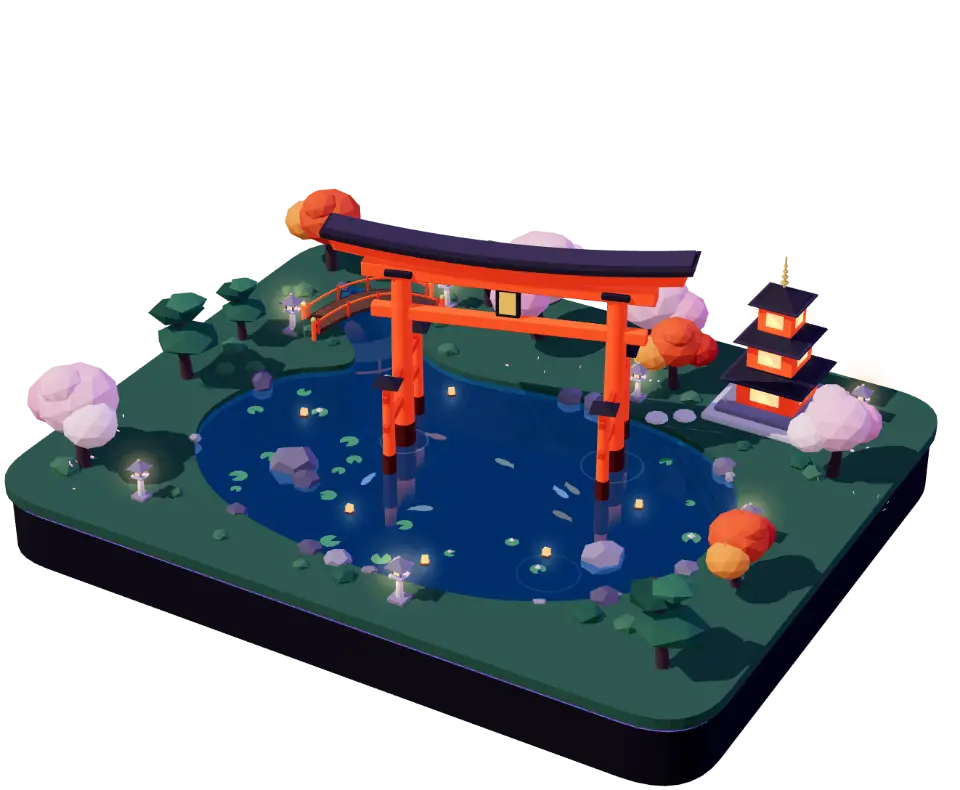
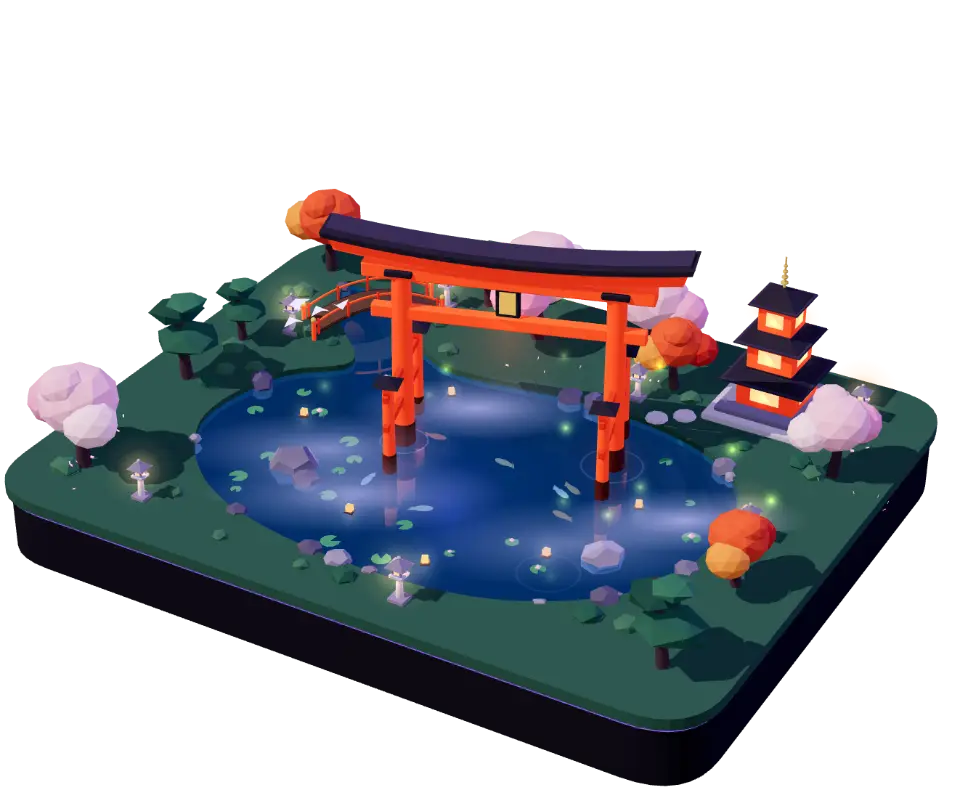
Add depth to the hero and life to the garden
Hero: a violet wash and dot grid behind the garden that drifts on scroll,
and a pulsing dot on the call to action. Garden: a glow on the torii and
the water at its feet, fireflies, mist over the pond and a flock of
birds; poster re-rendered. Service cards lift with a violet edge on hover.

diff --git a/src/components/hero/scene/garden.js b/src/components/hero/scene/garden.js
@@ -28,6 +28,7 @@ const C = {
   pad: '#3f8a62',
   lotus: '#ffc4dc',
   warm: '#ffd9a0',
+  dusk: '#8b6bff',
   paper: '#ffcf8a',
   deep: '#081428',
   wood: '#5a3b33',
@@ -300,6 +301,14 @@ export async function buildGarden({ pause = async () => {} } = {}) {
     // The name tablet between the beams.
     put('solid', block(0.26, 0.34, 0.07, 0.015), at(0, 1.63, 0), C.roof);
     for (const z of [-0.04, 0.04]) put('glow', block(0.18, 0.26, 0.012, 0.004), at(0, 1.67, z), C.gold);
+    // The gate glows a little in the dusk, and so does the water at its feet.
+    glows.push([TORII.x, 1.3 * TORII.s, TORII.z, 2.3 * TORII.s, C.vermilion, 0.22]);
+    glow(TORII.x, 1.67 * TORII.s, TORII.z, 0.9, C.gold, 0.4);
+    for (const side of [-1, 1]) {
+      const foot = new THREE.Vector3(side * 1.15, 0, 0).applyMatrix4(T);
+      glows.push([foot.x, WATER + 0.03, foot.z, 1.5, C.vermilion, 0.22]);
+    }
+    glows.push([TORII.x, WATER + 0.03, TORII.z + 1.5, 2.6, C.dusk, 0.2]);
   }
 
   await pause();
@@ -689,6 +698,159 @@ export async function buildGarden({ pause = async () => {} } = {}) {
   halos.renderOrder = 4;
   group.add(halos);
   extra.push(haloGeometry, haloMaterial);
+  await pause();
+
+  // The living things below draw their numbers from their own sequence, so
+  // adding to them never moves a tree or a rock.
+  const life = seeded(23);
+  const span = (min, max) => min + life() * (max - min);
+
+  // ---------- Fireflies ----------
+  // Small lights wandering over the pond and the shore, each blinking in its
+  // own time. One draw, with the halos' material.
+  {
+    const count = 36;
+    const flies = Array.from({ length: count }, () => {
+      const angle = life() * Math.PI * 2;
+      const reach = Math.sqrt(life());
+      return {
+        x: 0.2 + Math.cos(angle) * reach * 3.6,
+        y: span(0.2, 1.2),
+        z: Math.sin(angle) * reach * 2.8,
+        wander: span(0.18, 0.42),
+        pace: span(0.25, 0.6),
+        blink: span(0.7, 1.6),
+        phase: life() * 40,
+      };
+    });
+    const positions = new THREE.Float32BufferAttribute(new Float32Array(count * 3), 3);
+    const tints = new THREE.Float32BufferAttribute(new Float32Array(count * 4), 4);
+    const tint = color('#e6ff9a');
+    const geometry = new THREE.BufferGeometry();
+    geometry.setAttribute('position', positions);
+    geometry.setAttribute('size', new THREE.Float32BufferAttribute(flies.map(() => span(0.26, 0.4)), 1));
+    geometry.setAttribute('tint', tints);
+    const points = new THREE.Points(geometry, haloMaterial);
+    points.frustumCulled = false;
+    points.renderOrder = 5;
+    group.add(points);
+    extra.push(geometry);
+    const place = (t) => {
+      flies.forEach((f, i) => {
+        const a = t * f.pace + f.phase;
+        positions.setXYZ(
+          i,
+          f.x + Math.sin(a) * f.wander + Math.sin(a * 0.37) * f.wander,
+          f.y + Math.sin(a * 1.3) * 0.12,
+          f.z + Math.cos(a * 0.8) * f.wander + Math.cos(a * 0.29) * f.wander,
+        );
+        // Lit for about half of each blink, fading in and out.
+        const lit = Math.max(0, Math.sin(t * f.blink + f.phase));
+        tints.setXYZW(i, tint.r, tint.g, tint.b, lit * lit * 0.9);
+      });
+      positions.needsUpdate = true;
+      tints.needsUpdate = true;
+    };
+    place(0);
+    movers.push(place);
+  }
+  await pause();
+
+  // ---------- Mist ----------
+  // Low, wide wisps drifting across the water.
+  {
+    const wisps = [
+      [-1.6, 0.9, 2.6, 0.0],
+      [1.4, 1.7, 3.0, 2.1],
+      [0.4, -0.6, 2.4, 4.4],
+      [2.3, 0.3, 2.2, 1.2],
+      [-0.6, 2.2, 2.8, 3.3],
+    ];
+    // Softer than the lights' halo: no bright middle.
+    const canvas = document.createElement('canvas');
+    canvas.width = canvas.height = 64;
+    const ctx = canvas.getContext('2d');
+    const fade = ctx.createRadialGradient(32, 32, 0, 32, 32, 32);
+    fade.addColorStop(0, 'rgba(255,255,255,0.55)');
+    fade.addColorStop(0.5, 'rgba(255,255,255,0.22)');
+    fade.addColorStop(1, 'rgba(255,255,255,0)');
+    ctx.fillStyle = fade;
+    ctx.fillRect(0, 0, 64, 64);
+    const map = new THREE.CanvasTexture(canvas);
+    map.colorSpace = THREE.SRGBColorSpace;
+    extra.push(map);
+    for (const [x, z, width, phase] of wisps) {
+      const wisp = new THREE.Sprite(
+        new THREE.SpriteMaterial({ map, color: '#cfc6ff', transparent: true, opacity: 0, depthWrite: false, toneMapped: false }),
+      );
+      wisp.scale.set(width * 1.4, width * 0.36, 1);
+      wisp.renderOrder = 6;
+      group.add(wisp);
+      extra.push(wisp.material);
+      const move = (t) => {
+        wisp.position.set(x + Math.sin(t * 0.05 + phase) * 0.9, WATER + 0.16 + Math.sin(t * 0.21 + phase) * 0.03, z + Math.cos(t * 0.04 + phase) * 0.3);
+        wisp.material.opacity = 1.15 + Math.sin(t * 0.13 + phase * 2) * 0.35;
+      };
+      move(0);
+      movers.push(move);
+    }
+  }
+  await pause();
+
+  // ---------- Birds ----------
+  // A small flock circling high over the garden in a loose V. Each bird is
+  // two triangles (its wings), all of them in one mesh moved every frame.
+  {
+    const flock = [
+      [0, 0, 0],
+      [-0.22, 0.16, 0.04],
+      [-0.22, -0.16, -0.03],
+      [-0.45, 0.33, 0.07],
+      [-0.47, -0.31, 0.02],
+    ].map(([back, side, lift], i) => ({ back, side, lift, phase: i * 1.9, beat: span(5.2, 6.4) }));
+    const positions = new THREE.Float32BufferAttribute(new Float32Array(flock.length * 18), 3);
+    const geometry = new THREE.BufferGeometry();
+    geometry.setAttribute('position', positions);
+    const material = new THREE.MeshBasicMaterial({ color: '#efe9ff', side: THREE.DoubleSide, toneMapped: false });
+    const birds = new THREE.Mesh(geometry, material);
+    birds.frustumCulled = false;
+    group.add(birds);
+    extra.push(geometry, material);
+    const WING = 0.15;
+    const BODY = 0.075;
+    const place = (t) => {
+      // Round an oval, 40 seconds a lap, starting over the back of the garden.
+      const a = t * 0.157 + 2.2;
+      const cx = 0.3 + Math.cos(a) * 3.1;
+      const cz = Math.sin(a) * 2.2;
+      const cy = 2.55 + Math.sin(t * 0.3) * 0.12;
+      // Heading (along the path) and the level direction across it.
+      let hx = -Math.sin(a) * 3.1;
+      let hz = Math.cos(a) * 2.2;
+      const length = Math.hypot(hx, hz);
+      hx /= length;
+      hz /= length;
+      const rx = hz;
+      const rz = -hx;
+      flock.forEach((bird, i) => {
+        const x = cx + hx * bird.back + rx * bird.side;
+        const y = cy + bird.lift + Math.sin(t * 0.8 + bird.phase) * 0.02;
+        const z = cz + hz * bird.back + rz * bird.side;
+        const flap = Math.sin(t * bird.beat + bird.phase) * 0.75;
+        const out = Math.cos(flap) * WING;
+        const up = Math.sin(flap) * WING;
+        const o = i * 6;
+        for (const [k, side] of [-1, 1].entries()) {
+          positions.setXYZ(o + k * 3, x + hx * BODY, y, z + hz * BODY);
+          positions.setXYZ(o + k * 3 + 1, x - hx * BODY, y, z - hz * BODY);
+          positions.setXYZ(o + k * 3 + 2, x - hx * BODY * 0.4 + rx * out * side, y + up, z - hz * BODY * 0.4 + rz * out * side);
+        }
+      });
+      positions.needsUpdate = true;
+    };
+    place(0);
+    movers.push(place);
+  }
   await pause();
 
   const reflections = await mirror.build({ mirror: mirrorMaterial }, { castShadow: false, receiveShadow: false, pause });

diff --git a/src/components/hero/Hero.css b/src/components/hero/Hero.css
@@ -16,6 +16,29 @@
   background: var(--grad-hero);
 }
 
+/* Depth behind everything: a wash of violet light from the garden's side and
+   a fine dot grid that fades out towards the edges. It drifts a little as the
+   hero scrolls away (Hero.jsx), slower than the garden. */
+.hero__texture {
+  position: absolute;
+  inset: -6% 0;
+  z-index: -1;
+  pointer-events: none;
+  background:
+    radial-gradient(60% 55% at 72% 42%, rgba(124, 92, 255, 0.2), transparent 70%),
+    radial-gradient(45% 50% at 8% 100%, rgba(77, 0, 242, 0.22), transparent 70%);
+}
+
+.hero__texture::after {
+  content: '';
+  position: absolute;
+  inset: 0;
+  background-image: radial-gradient(rgba(255, 255, 255, 0.13) 1px, transparent 1.5px);
+  background-size: 28px 28px;
+  -webkit-mask-image: radial-gradient(75% 70% at 68% 45%, #000 0%, transparent 78%);
+  mask-image: radial-gradient(75% 70% at 68% 45%, #000 0%, transparent 78%);
+}
+
 .hero-scene canvas {
   width: 100%;
   height: 100%;
@@ -223,6 +246,41 @@
 .hero__slide.is-active .hero__title,
 .hero__slide.is-active .hero__cta {
   will-change: transform;
+}
+
+/* A small live dot before the label draws the eye to the button. */
+.hero__cta-dot {
+  position: relative;
+  width: 8px;
+  height: 8px;
+  border-radius: 50%;
+  background: var(--violet);
+}
+
+.hero__cta-dot::after {
+  content: '';
+  position: absolute;
+  inset: 0;
+  border-radius: 50%;
+  background: var(--violet-light);
+  animation: cta-ping 2.4s var(--ease-out-3) infinite;
+}
+
+.hero__slide:not(.is-active) .hero__cta-dot::after {
+  animation: none;
+}
+
+@keyframes cta-ping {
+  from {
+    opacity: 0.7;
+    transform: scale(1);
+  }
+
+  70%,
+  to {
+    opacity: 0;
+    transform: scale(3.2);
+  }
 }
 
 .hero__title {

diff --git a/src/components/hero/Hero.jsx b/src/components/hero/Hero.jsx
@@ -227,8 +227,10 @@ export default function Hero() {
     listen(root, 'focusout', (e) => !root.contains(e.relatedTarget) && holdFocus(false));
 
     if (!reduced) {
-      // Scroll parallax: the garden lags behind as the hero leaves.
+      // Scroll parallax: the garden lags behind as the hero leaves, and the
+      // backdrop behind it lags a little less, so the two separate.
       const [parallax] = q('.hero__sculpture');
+      const [backdrop] = q('.hero__texture');
       let ticking = false;
       listen(
         window,
@@ -240,6 +242,7 @@ export default function Hero() {
             ticking = false;
             const passed = Math.min(1, Math.max(0, window.scrollY / (root.offsetHeight || 1)));
             parallax.style.transform = `translateY(${14 * passed}%)`;
+            backdrop.style.transform = `translateY(${5 * passed}%)`;
           });
         },
         { passive: true },
@@ -302,6 +305,7 @@ export default function Hero() {
         {brand.name}: {brand.tagline}
       </h1>
       <div className="hero__bg" aria-hidden="true" />
+      <div className="hero__texture" aria-hidden="true" />
       <div className="hero__progress" aria-hidden="true">
         <span className="hero__progress-fill" />
       </div>
@@ -326,6 +330,7 @@ export default function Hero() {
                 ))}
               </h2>
               <a className="btn btn--primary hero__cta" href="#contact" tabIndex={i === active ? 0 : -1}>
+                <span className="hero__cta-dot" aria-hidden="true" />
                 Get in touch
               </a>
             </div>

diff --git a/src/components/Services.css b/src/components/Services.css
@@ -5,9 +5,42 @@
 }
 
 .service-card {
+  position: relative;
+  isolation: isolate;
   padding: 24px 22px 30px;
   border-radius: var(--radius-card);
   background: var(--white);
+}
+
+/* Hover: the card lifts and its edge tints. The lift uses `translate`, so it doesn't
+   fight the scroll-in reveal's transform or wait for its delay. */
+.service-card::before {
+  content: '';
+  position: absolute;
+  inset: 0;
+  z-index: -1;
+  border: 1px solid rgba(77, 0, 242, 0.28);
+  border-radius: inherit;
+  box-shadow: 0 22px 44px -18px rgba(40, 1, 124, 0.35);
+  opacity: 0;
+  transition: opacity 0.3s;
+}
+
+@media (hover: hover) {
+  .service-card {
+    transition:
+      opacity 0.5s var(--ease-out-3) var(--reveal-delay, 0ms),
+      transform 0.5s var(--ease-out-3) var(--reveal-delay, 0ms),
+      translate 0.4s var(--ease-out-3);
+  }
+
+  .service-card:hover {
+    translate: 0 -6px;
+  }
+
+  .service-card:hover::before {
+    opacity: 1;
+  }
 }
 
 .service-card__icon {
